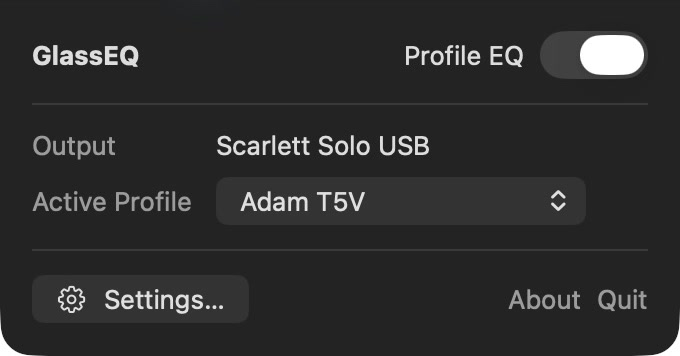
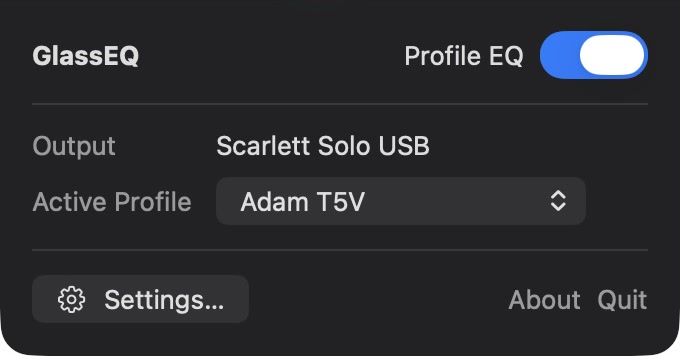
fix(ui): restore playback from settings and reject stale output assignments

Changed region(s): [[0.7721, 0.0618, 0.9574, 0.2472]]

diff --git a/Sources/GlassEQApp/GlassEQApp.swift b/Sources/GlassEQApp/GlassEQApp.swift
@@ -1106,6 +1106,15 @@ final class GlassEQAppModel {
         }
     }
 
+    var needsMenuRecovery: Bool {
+        if retryPlayback != nil { return true }
+        guard lifecycleState == .stopped, processingIntent == .requested else { return false }
+        switch onboardingAudioCaptureState {
+        case .failed, .permissionDenied: return true
+        default: return false
+        }
+    }
+
     var menuStatusDetail: String? {
         if isRunning
             && statusMessage == processingStatus(outputName: currentOutputName, profileName: activeProfile.name)
@@ -1139,7 +1148,7 @@ final class GlassEQAppModel {
             activeProfileMatchesLibrary: profileStore.profiles.contains(activeProfile),
             activeProfileName: activeProfile.name,
             currentOutputName: currentOutputName,
-            currentOutputUID: currentOutputUID,
+            currentOutputUID: processingWasStopped ? "" : currentOutputUID,
             currentOutputSampleRate: currentOutputSampleRate,
             currentProcessingSampleRate: processingSampleRateForSettings(),
             currentOutputChannelCount: currentOutputChannelCount,
@@ -1150,6 +1159,7 @@ final class GlassEQAppModel {
             statusMessage: statusMessage,
             metrics: settingsMetricsSnapshot(),
             isRunning: isRunning,
+            offersPlaybackHandback: retryPlayback == .muted,
             programmeComparison: programmeComparison,
             profileStoreProtection: profileStoreProtectionSnapshot()
         )
@@ -1943,11 +1953,17 @@ final class GlassEQAppModel {
         return profile
     }
 
-    func setOutputAssignment(outputUID: String, profileID: UUID?) throws {
-        guard !outputUID.isEmpty, outputUID == currentOutputUID else {
+    func validateAssignmentOutput(_ outputUID: String) throws {
+        guard !processingWasStopped, !outputUID.isEmpty, outputUID == currentOutputUID,
+            try defaultOutputLookup.defaultOutputDevice().uid == outputUID
+        else {
             throw SettingsCommandFailure(
                 message: localized("The output changed. Choose a profile for the current output."))
         }
+    }
+
+    func setOutputAssignment(outputUID: String, profileID: UUID?) throws {
+        try validateAssignmentOutput(outputUID)
         let profile = try savedProfile(profileID ?? profileStore.fallbackProfileID)
         try useForCurrentOutput(profile: profile, useFallback: profileID == nil)
     }
@@ -4646,7 +4662,7 @@ private struct MenuBarView: View {
                     .font(.headline)
                 Spacer()
                 if model.canControlMenuProcessing {
-                    if model.retryPlayback != nil {
+                    if model.needsMenuRecovery {
                         Label(localized("Needs attention"), systemImage: "exclamationmark.triangle.fill")
                             .foregroundStyle(.orange)
                     } else {
@@ -4663,11 +4679,14 @@ private struct MenuBarView: View {
                 }
             }
 
+            if model.retryPlayback == .muted {
+                Label(localized("Output is muted"), systemImage: "speaker.slash").font(.headline)
+            }
             Divider()
 
             Grid(alignment: .leading, horizontalSpacing: 12, verticalSpacing: 8) {
                 GridRow {
-                    Text(localized("Output"))
+                    Text(model.processingWasStopped ? localized("Last Output") : localized("Output"))
                         .foregroundStyle(.secondary)
                     Text(model.currentOutputName)
                         .lineLimit(2)
@@ -4679,7 +4698,8 @@ private struct MenuBarView: View {
                         .accessibilityHidden(true)
                     Picker(localized("Active Profile"), selection: $model.activeProfileID) {
                         ForEach(model.profileStore.profiles) { profile in
-                            Text(profile.name).tag(profile.id)
+                            Text(profile.isBypassed ? localized("\(profile.name) (bypassed)") : profile.name).tag(
+                                profile.id)
                         }
                     }
                     .labelsHidden()
@@ -4698,14 +4718,12 @@ private struct MenuBarView: View {
                 Button(localized("Open Privacy Settings")) { model.openPrivacySettingsForOnboarding() }
                 if let settingsError { Text(settingsError).font(.callout) }
             }
-            if let playback = model.retryPlayback {
-                if playback == .muted {
-                    Label(localized("Output is muted"), systemImage: "speaker.slash")
-                        .font(.headline)
-                }
+            if model.needsMenuRecovery {
                 HStack {
                     Button(localized("Retry Audio Engine")) { model.retryAudioEngine() }
-                    Button(playback == .muted ? localized("Play Without EQ") : localized("Turn Off Equalizer")) {
+                    Button(
+                        model.retryPlayback == .muted ? localized("Play Without EQ") : localized("Turn Off Equalizer")
+                    ) {
                         model.stop()
                     }
                     .buttonStyle(.borderedProminent)

diff --git a/Sources/GlassEQSettingsIPC/SettingsIPC.swift b/Sources/GlassEQSettingsIPC/SettingsIPC.swift
@@ -751,6 +751,7 @@ public struct SettingsProfileStoreProtectionDTO: Codable, Equatable, Sendable {
 public struct SettingsSnapshotPatchDTO: Codable, Equatable, Sendable {
     public var statusMessage: String?
     public var isRunning: Bool?
+    public var offersPlaybackHandback: Bool?
     public var programmeComparison: EQProgrammeComparisonSnapshot?
     public var selectedProfileID: UUID?
     public var draftProfile: EQProfile?
@@ -816,6 +817,7 @@ public struct SettingsSnapshotDTO: Codable, Equatable, Sendable {
     public var statusMessage: String
     public var metrics: SettingsAudioMetricsDTO
     public var isRunning: Bool
+    public var offersPlaybackHandback: Bool
     public var programmeComparison: EQProgrammeComparisonSnapshot
     public var profileStoreProtection: SettingsProfileStoreProtectionDTO
 
@@ -838,6 +840,7 @@ public struct SettingsSnapshotDTO: Codable, Equatable, Sendable {
         case statusMessage
         case metrics
         case isRunning
+        case offersPlaybackHandback
         case programmeComparison
         case profileStoreProtection
     }
@@ -861,6 +864,7 @@ public struct SettingsSnapshotDTO: Codable, Equatable, Sendable {
         statusMessage: String,
         metrics: SettingsAudioMetricsDTO,
         isRunning: Bool,
+        offersPlaybackHandback: Bool = false,
         programmeComparison: EQProgrammeComparisonSnapshot = EQProgrammeComparisonSnapshot(),
         profileStoreProtection: SettingsProfileStoreProtectionDTO = .unprotected
     ) {
@@ -882,6 +886,7 @@ public struct SettingsSnapshotDTO: Codable, Equatable, Sendable {
         self.statusMessage = statusMessage
         self.metrics = metrics
         self.isRunning = isRunning
+        self.offersPlaybackHandback = offersPlaybackHandback
         self.programmeComparison = programmeComparison
         self.profileStoreProtection = profileStoreProtection
     }
@@ -919,6 +924,7 @@ public struct SettingsSnapshotDTO: Codable, Equatable, Sendable {
             statusMessage: try container.decode(String.self, forKey: .statusMessage),
             metrics: try container.decode(SettingsAudioMetricsDTO.self, forKey: .metrics),
             isRunning: try container.decodeIfPresent(Bool.self, forKey: .isRunning) ?? false,
+            offersPlaybackHandback: try container.decodeIfPresent(Bool.self, forKey: .offersPlaybackHandback) ?? false,
             programmeComparison: try container.decodeIfPresent(
                 EQProgrammeComparisonSnapshot.self,
                 forKey: .programmeComparison
@@ -1022,7 +1028,7 @@ public enum SettingsCommand: Codable, Equatable, Sendable {
     case duplicateProfile(UUID)
     case deleteProfile(UUID)
     case applyProfile(EQProfile)
-    case useProfileForCurrentOutput(EQProfile)
+    case useProfileForCurrentOutput(EQProfile, outputUID: String)
     case setOutputAssignment(outputUID: String, profileID: UUID?)
     case setFallbackProfile(UUID)
     case importProfile(format: SettingsImportFormat, name: String, text: String)
@@ -1035,6 +1041,7 @@ public enum SettingsCommand: Codable, Equatable, Sendable {
     case setAggregateBufferMode(SettingsAggregateBufferMode)
     case retryAutomaticAggregateBuffer
     case retryAudioEngine
+    case playWithoutEQ
     case openPrivacySettings
     case startMetricsPolling
     case stopMetricsPolling

diff --git a/Tests/GlassEQAppTests/GlassEQAppModelLifecycleTests.swift b/Tests/GlassEQAppTests/GlassEQAppModelLifecycleTests.swift
@@ -3160,6 +3160,23 @@ struct GlassEQAppModelLifecycleTests {
     }
 
     @Test
+    func settingsCanRestoreDirectPlaybackAfterMutedFailure() async throws {
+        let output = makeOutput()
+        let engine = FakeAudioEngine()
+        engine.startError = TestAudioError.startFailed
+        let observers = FakeDefaultOutputObserverFactory()
+        let model = makeModel(
+            engine: engine, lookup: FakeDefaultOutputLookup(.success(output)), observers: observers, outputDelay: .zero)
+        model.start()
+        observers.observers[0].emit(.success(output))
+        try #require(await waitUntil { model.settingsSnapshot().offersPlaybackHandback })
+        _ = try await model.performSettingsCommand(.playWithoutEQ)
+        try #require(await waitUntil { !engine.holdsProcessingMute })
+        #expect(model.processingWasStopped)
+        #expect(!model.settingsSnapshot().offersPlaybackHandback)
+    }
+
+    @Test
     func outputAssignmentUsesSavedProfilesAndCanReturnToFallback() async throws {
         let first = makeProfile(name: "First")
         let second = makeProfile(name: "Second")
@@ -3188,6 +3205,12 @@ struct GlassEQAppModelLifecycleTests {
         _ = try await model.performSettingsCommand(.setFallbackProfile(second.id))
         #expect(model.profileStore.fallbackProfileID == second.id)
         #expect(model.profileStore.profiles == store.profiles)
+        model.stop()
+        #expect(model.settingsSnapshot().currentOutputUID.isEmpty)
+        await #expect(throws: SettingsCommandFailure.self) {
+            _ = try await model.performSettingsCommand(.setOutputAssignment(outputUID: output.uid, profileID: first.id))
+        }
+        #expect(model.currentOutputMappedProfileID == nil)
     }
 
     @Test
@@ -4086,6 +4109,7 @@ struct GlassEQAppModelLifecycleTests {
             return
         }
         #expect(message.contains("Default output unavailable"))
+        #expect(model.needsMenuRecovery)
     }
 
     @Test
@@ -6858,6 +6882,7 @@ struct LicenseEnforcementTests {
         model.start()
         observers.observers[0].emit(.success(output))
         try #require(await waitUntil { model.retryPlayback == .muted })
+        #expect(model.settingsSnapshot().offersPlaybackHandback)
         #expect(model.supportPlaybackDescription == "Output muted by GlassEQ")
         let failure = model.statusMessage
         if sleepBeforeExpiry { model.handleWillSleep() }

diff --git a/Sources/GlassEQSettingsUI/EditorTab.swift b/Sources/GlassEQSettingsUI/EditorTab.swift
@@ -238,7 +238,7 @@ struct EditorTab: View {
                         suffix: "dB"
                     )
 
-                    Toggle(localized("Bypass Profile"), isOn: $controller.draftProfile.isBypassed)
+                    Toggle(localized("Bypass When Applied"), isOn: $controller.draftProfile.isBypassed)
                         .toggleStyle(.switch)
                         .accessibilityHint(Text(localized("Turns equalizer processing off without changing settings")))
 
@@ -356,6 +356,11 @@ private struct EditorResponseSection: View {
                             localized(
                                 "Shows the estimated gain curve from 20 Hz to \(localizedFrequency(analysis.maximumUsableFrequency))"
                             )))
+                if analysis.hasOffScaleResponse {
+                    Text(localized("Part of the response is outside the displayed dB range."))
+                        .font(.caption)
+                        .foregroundStyle(.secondary)
+                }
                 if let inactiveFilterSummary = analysis.inactiveFilterSummary {
                     Label(inactiveFilterSummary, systemImage: "exclamationmark.triangle.fill")
                         .font(.caption)
@@ -397,6 +402,8 @@ struct HeadroomRow: View {
                 localized("No clipping expected")
             } else if attenuation == nil {
                 localized("Required headroom exceeds the profile limit")
+            } else if profile.channelMode == .stereo, let attenuation {
+                localized("Reduce both channels by \(localizedDecibels(attenuation))")
             } else {
                 localized("Recommend \(localizedDecibels(recommendedPreampDB))")
             }

diff --git a/Sources/GlassEQSettingsUI/SettingsController.swift b/Sources/GlassEQSettingsUI/SettingsController.swift
@@ -187,7 +187,9 @@ final class SettingsController {
     }
 
     func requestSelection(_ id: UUID) {
-        guard selectedProfileID != id, !isComparisonInProgress else { return }
+        guard !isComparisonInProgress else { return }
+        tab = .editor
+        guard selectedProfileID != id else { return }
         if hasUnsavedDraft {
             pendingSelection = id
         } else {
@@ -225,7 +227,7 @@ final class SettingsController {
     }
 
     func useDraftForCurrentOutput() {
-        perform(.useProfileForCurrentOutput(draftProfile))
+        perform(.useProfileForCurrentOutput(draftProfile, outputUID: snapshot.currentOutputUID))
     }
 
     func setOutputAssignment(outputUID: String, profileID: UUID?) {
@@ -260,6 +262,8 @@ final class SettingsController {
     func retryAutomaticAggregateBuffer() {
         perform(.retryAutomaticAggregateBuffer)
     }
+
+    func playWithoutEQ() { perform(.playWithoutEQ) }
 
     func retryAudioEngine() {
         perform(.retryAudioEngine)
@@ -480,6 +484,8 @@ final class SettingsController {
             return nil
         }
         switch command {
+        case .deleteProfile(let id) where id != dispatchedSelection:
+            reconcileWithSnapshot()
         case .createProfile, .duplicateProfile, .deleteProfile,
             .applyProfile, .useProfileForCurrentOutput,
             .importProfile, .importParsedProfile, .resetUnsupportedProfileStore, .applyLibraryImport(.replace):

diff --git a/Sources/GlassEQSettingsUI/OutputTab.swift b/Sources/GlassEQSettingsUI/OutputTab.swift
@@ -29,7 +29,9 @@ struct OutputTab: View {
     var body: some View {
         Form {
             Section {
-                LabeledContent(localized("Current Output"), value: snapshot.currentOutputName)
+                LabeledContent(
+                    snapshot.currentOutputUID.isEmpty ? localized("Last Known Output") : localized("Current Output"),
+                    value: snapshot.currentOutputName)
 
                 LabeledContent(localized("Audio Buffer")) {
                     Picker(localized("Audio Buffer"), selection: $controller.aggregateBufferMode) {
@@ -227,9 +229,15 @@ struct OutputTab: View {
     }
 
     private var recoveryActions: some View {
-        HStack {
-            Button(localized("Retry Audio Engine")) { controller.retryAudioEngine() }
-            Button(localized("Open Privacy Settings")) { controller.openPrivacySettings() }
+        VStack(alignment: .leading, spacing: 8) {
+            if snapshot.offersPlaybackHandback {
+                Label(localized("Output is muted"), systemImage: "speaker.slash")
+                Button(localized("Play Without EQ")) { controller.playWithoutEQ() }
+            }
+            HStack {
+                Button(localized("Retry Audio Engine")) { controller.retryAudioEngine() }
+                Button(localized("Open Privacy Settings")) { controller.openPrivacySettings() }
+            }
         }
     }
 

diff --git a/Sources/GlassEQApp/SettingsCoordinator.swift b/Sources/GlassEQApp/SettingsCoordinator.swift
@@ -527,6 +527,10 @@ final class SettingsCoordinator: NSObject {
             patch.statusMessage = snapshot.statusMessage
             didPatch = true
         }
+        if previous.offersPlaybackHandback != snapshot.offersPlaybackHandback {
+            patch.offersPlaybackHandback = snapshot.offersPlaybackHandback
+            didPatch = true
+        }
         if previous.isRunning != snapshot.isRunning {
             patch.isRunning = snapshot.isRunning
             didPatch = true
@@ -1121,7 +1125,8 @@ extension GlassEQAppModel {
         case .applyProfile(let profile):
             try apply(profile: profile)
 
-        case .useProfileForCurrentOutput(let profile):
+        case let .useProfileForCurrentOutput(profile, outputUID):
+            try validateAssignmentOutput(outputUID)
             try useForCurrentOutput(profile: profile)
 
         case let .setOutputAssignment(outputUID, profileID):
@@ -1180,6 +1185,9 @@ extension GlassEQAppModel {
 
         case .retryAutomaticAggregateBuffer:
             try retryAutomaticAggregateBuffer()
+
+        case .playWithoutEQ:
+            if retryPlayback == .muted { stop() }
 
         case .retryAudioEngine:
             retryAudioEngine()

diff --git a/Sources/GlassEQSettingsUI/ApplyBar.swift b/Sources/GlassEQSettingsUI/ApplyBar.swift
@@ -40,7 +40,7 @@ struct ApplyBar: View {
                     Button(localized("Compare")) {
                         controller.startProgrammeComparison()
                     }
-                    .disabled(isReadOnly || !controller.snapshot.isRunning)
+                    .disabled(isReadOnly || !controller.snapshot.isRunning || controller.draftProfile.isBypassed)
                     .help(localized("Compare the current filters with filters off at a matched volume."))
 
                     if hasUnsavedDraft {

diff --git a/Sources/GlassEQSettingsUI/EQAnalysis.swift b/Sources/GlassEQSettingsUI/EQAnalysis.swift
@@ -300,6 +300,12 @@ struct EQAnalysisSnapshot: Equatable, Sendable {
         return points
     }
 
+    var hasOffScaleResponse: Bool {
+        [linkedPoints, leftPoints, rightPoints].contains { points in
+            points.contains { !PlotScale.magnitudeRange.contains($0.magnitudeDB) }
+        }
+    }
+
     var accessibilitySummary: String {
         let preamp = recommendedPreampDB.map { localizedDecibels($0) } ?? localized("Analyzing…")
         let curveSummary: String

diff --git a/Sources/GlassEQSettingsUI/SettingsViewModel.swift b/Sources/GlassEQSettingsUI/SettingsViewModel.swift
@@ -45,6 +45,7 @@ public final class GlassEQSettingsViewModel {
         if let statusMessage = patch.statusMessage {
             snapshot.statusMessage = statusMessage
         }
+        if let handback = patch.offersPlaybackHandback { snapshot.offersPlaybackHandback = handback }
         if let isRunning = patch.isRunning {
             snapshot.isRunning = isRunning
         }

diff --git a/Sources/GlassEQSettingsUI/SettingsView.swift b/Sources/GlassEQSettingsUI/SettingsView.swift
@@ -1,4 +1,3 @@
-import AppKit
 import GlassEQSettingsIPC
 import SwiftUI
 
